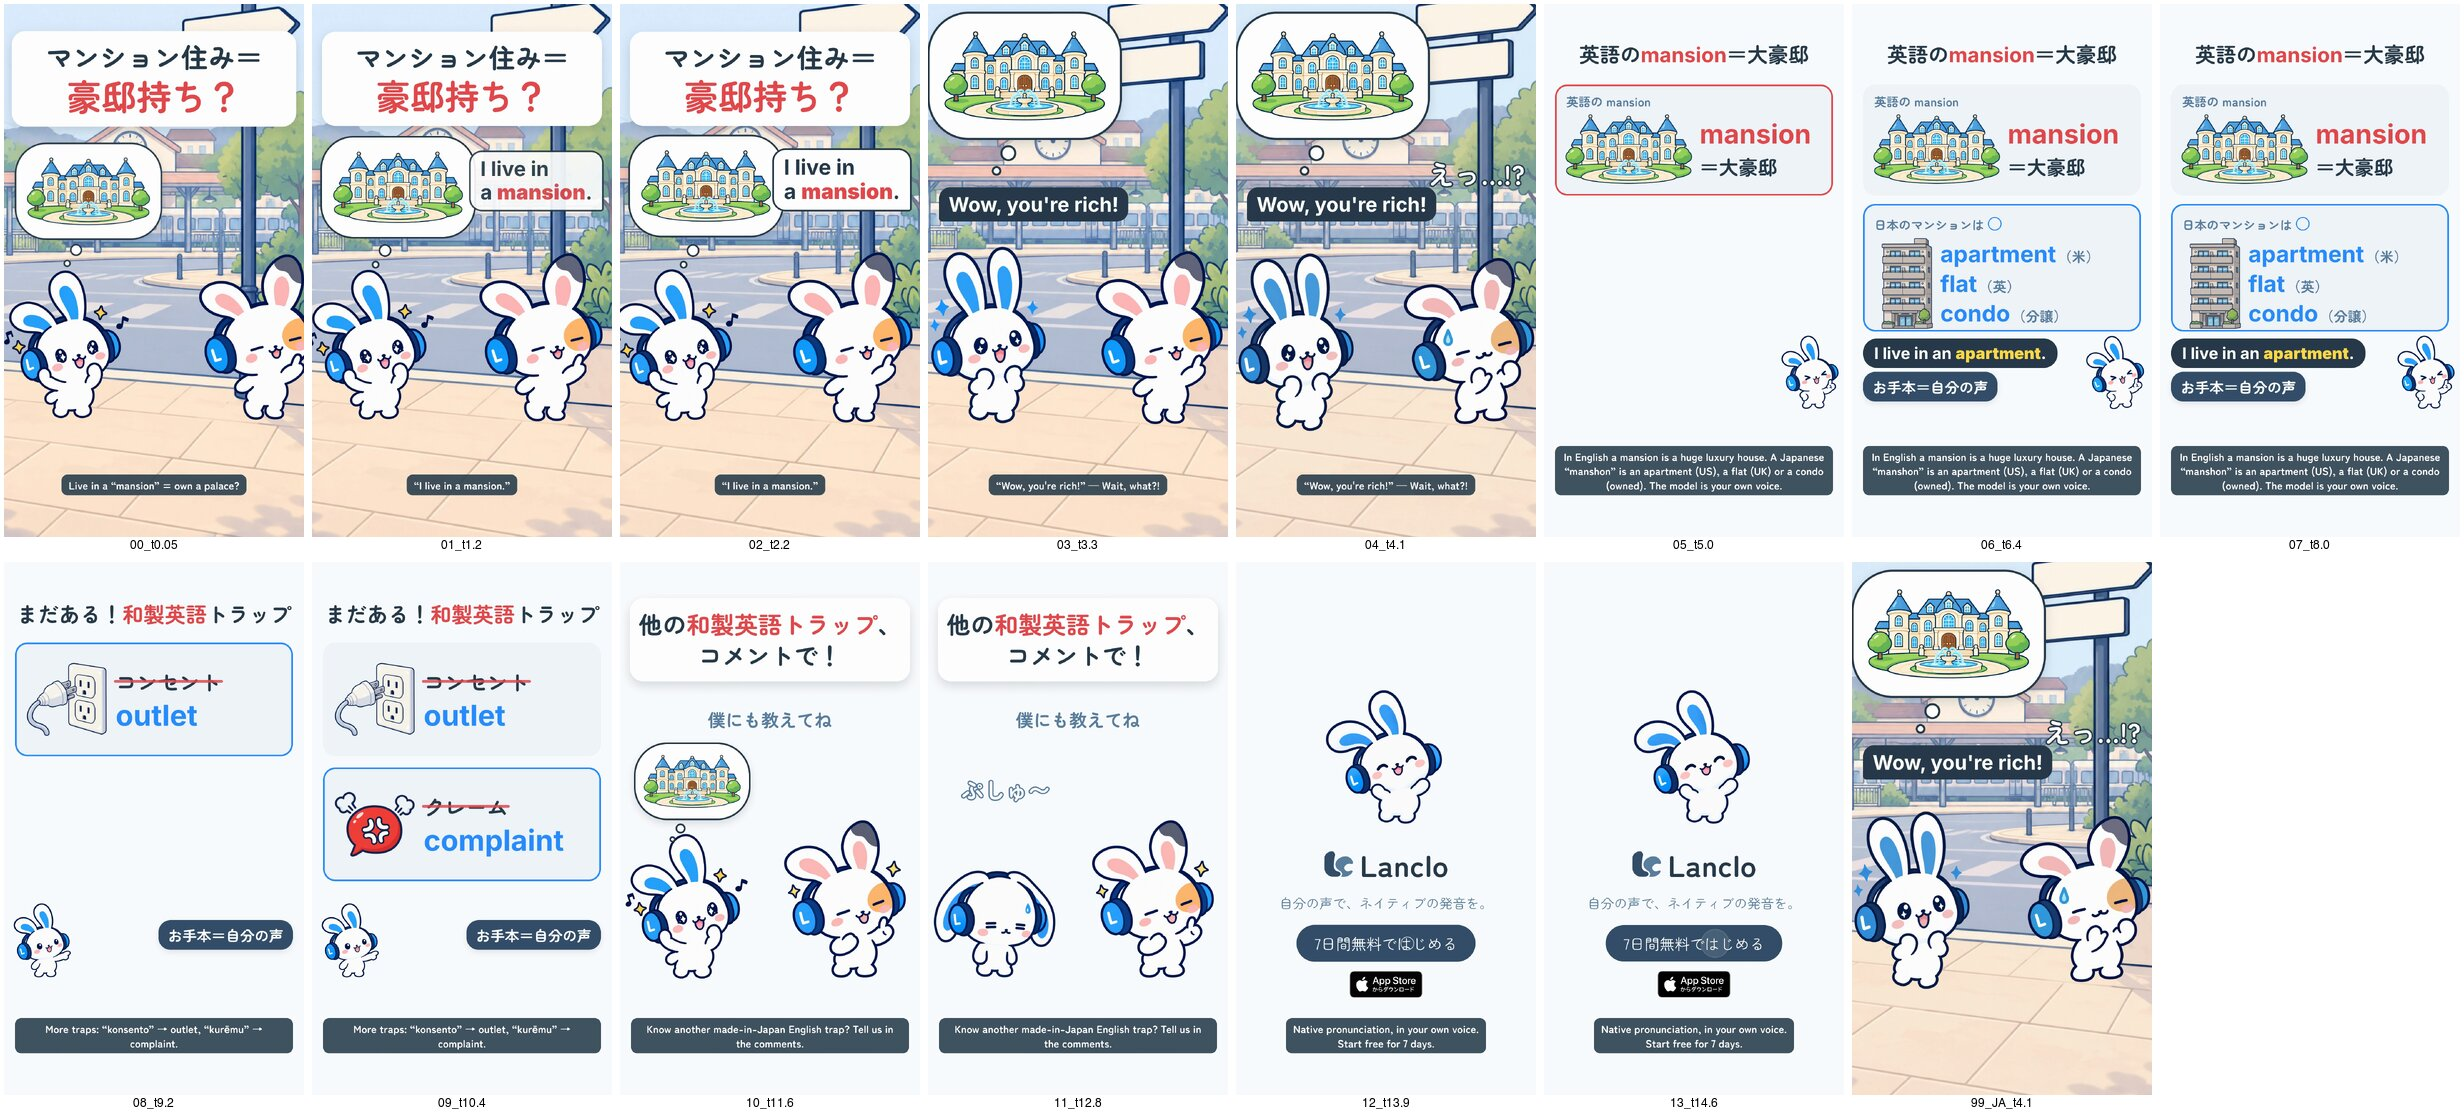
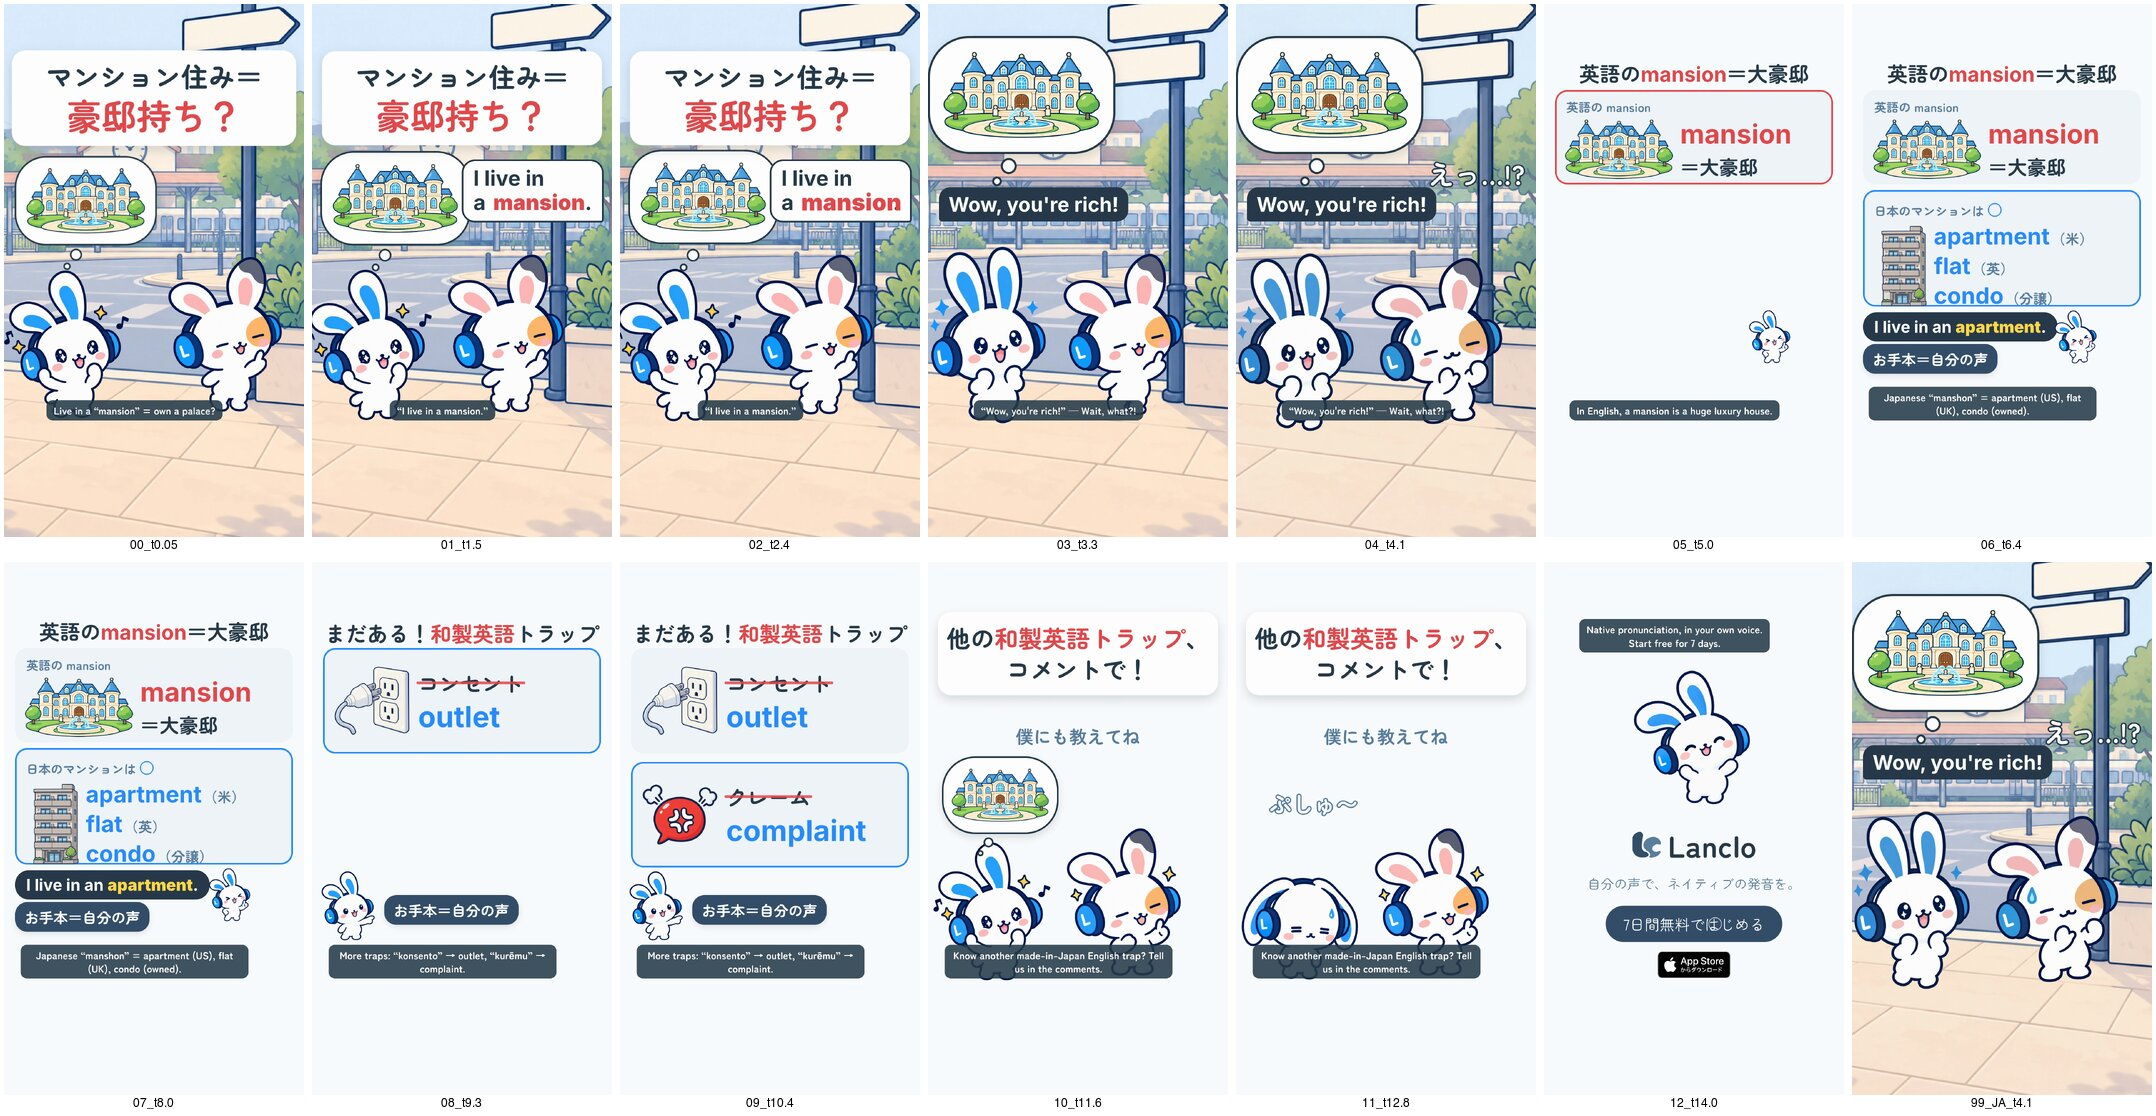
059 Katakana Traps 2: platform safe zones
English subtitles above y 1500 within x 60-880, the Friend's face and the
small card Mimi out of the right rail, text from y 200, end card moved up
so the store badge clears the bottom zone. Overlay check in process/.

diff --git a/films/mimi-katakana-mansion/source/hf/index.html b/films/mimi-katakana-mansion/source/hf/index.html
@@ -16,10 +16,10 @@
       #plate { position: absolute; inset: 0; width: 100%; height: 100%; object-fit: cover; }
       .cast { position: absolute; height: auto; transform-origin: 50% 100%; }
       .other { left: -10px; top: 950px; width: 470px; }   /* Mimi, left */
-      .learner { left: 590px; top: 890px; width: 460px; } /* the Friend, right */
+      .learner { left: 480px; top: 900px; width: 430px; } /* the Friend, right */
       #tint { position: absolute; inset: 0; background: #9aa6b2; mix-blend-mode: saturation; opacity: 0; }
       /* The hook: huge, on screen from frame 1 */
-      #hook { position: absolute; left: 36px; right: 36px; top: 100px; background: #ffffff; border-radius: 48px; padding: 30px 30px 34px;
+      #hook { position: absolute; left: 36px; right: 36px; top: 170px; background: #ffffff; border-radius: 48px; padding: 30px 30px 34px;
               box-shadow: 0 16px 40px rgba(39, 59, 75, 0.18); text-align: center; font-size: 96px; font-weight: 700; line-height: 1.25; color: #273b4b; }
       #hook .hot { display: inline-block; color: #e5484d; font-size: 124px; }
       /* Mimi's thought bubble: the castle with the fountain */
@@ -28,13 +28,13 @@
                       box-shadow: 0 12px 30px rgba(39, 59, 75, 0.16); display: flex; align-items: center; justify-content: center; }
       .think .cloud img { width: 88%; height: auto; }
       .think i { position: absolute; display: block; background: #ffffff; border: 6px solid #273b4b; border-radius: 50%; }
-      #think { left: 30px; top: 480px; width: 560px; height: 370px; }
-      #think i.a { left: 210px; top: 385px; width: 46px; height: 46px; }
-      #think i.b { left: 185px; top: 445px; width: 28px; height: 28px; }
+      #think { left: 30px; top: 530px; width: 540px; height: 340px; }
+      #think i.a { left: 210px; top: 352px; width: 46px; height: 46px; }
+      #think i.b { left: 185px; top: 405px; width: 28px; height: 28px; }
       /* speech: the Friend's line */
-      .say { position: absolute; right: 30px; top: 520px; background: #ffffff; border: 6px solid #273b4b; border-radius: 48px; border-bottom-right-radius: 10px;
+      .say { position: absolute; right: 30px; top: 560px; background: #ffffff; border: 6px solid #273b4b; border-radius: 48px; border-bottom-right-radius: 10px;
              padding: 18px 36px 22px; font-size: 76px; font-weight: 700; color: #273b4b; line-height: 1.15; font-family: "Helvetica Neue", Arial, sans-serif; }
-      #say b { color: #e5484d; display: inline-block; }
+      #say b { color: #e5484d; display: inline-block; margin-left: 0.12em; }
       /* Mimi's reply bubble (caption only, no voice) */
       .reply { position: absolute; left: 40px; top: 660px; background: #273b4b; color: #fff; border-radius: 40px; border-bottom-left-radius: 10px;
                padding: 18px 34px; font-family: "Helvetica Neue", Arial, sans-serif; font-size: 72px; font-weight: 700; }
@@ -42,62 +42,65 @@
                  -webkit-text-stroke: 10px #273b4b; paint-order: stroke fill; }
       /* The explain card: mansion (English) vs マンション (Japanese) */
       .type { position: absolute; inset: 0; background: #fbfcfd; }
-      #c-title { position: absolute; left: 0; right: 0; top: 130px; text-align: center; font-size: 74px; font-weight: 700; color: #273b4b; line-height: 1.3; }
+      #c-title { position: absolute; left: 0; right: 0; top: 200px; text-align: center; font-size: 74px; font-weight: 700; color: #273b4b; line-height: 1.3; }
       #c-title em { font-style: normal; color: #e5484d; font-family: "Helvetica Neue", Arial, sans-serif; }
       .row { position: absolute; left: 40px; right: 40px; border-radius: 44px; background: #f1f5f9; border: 6px solid transparent; padding: 22px 24px; }
       .row .lab { font-size: 44px; font-weight: 700; color: #5b7f9f; text-align: left; padding-left: 10px; }
       .row .lab b { font-size: 56px; margin-left: 10px; }
-      #row-ng { top: 290px; height: 400px; }
-      #row-ok { top: 720px; height: 460px; }
+      #row-ng { top: 310px; height: 340px; }
+      #row-ok { top: 670px; height: 420px; }
       #row-ng .lab b { color: #e5484d; }
       #row-ok .lab b { color: #2a8dff; }
       .pair { display: flex; align-items: center; gap: 20px; margin-top: 8px; }
-      #row-ng .pair img { width: 470px; height: auto; }
-      #row-ok .pair img { height: 340px; width: auto; margin-left: 30px; }
+      #row-ng .pair img { width: 400px; height: auto; }
+      #row-ok .pair img { height: 300px; width: auto; margin-left: 30px; }
       .words { display: flex; flex-direction: column; gap: 8px; }
       .w-en { font-family: "Helvetica Neue", Arial, sans-serif; font-weight: 700; color: #273b4b; }
       #row-ng .w-en { font-size: 96px; color: #e5484d; }
       #row-ng .w-ja { font-size: 70px; font-weight: 700; color: #273b4b; }
       #row-ok .words .w { font-size: 50px; font-weight: 700; color: #5b7f9f; white-space: nowrap; }
       #row-ok .words .w .w-en { font-size: 82px; color: #2a8dff; margin-right: 6px; }
-      #c-tip { position: absolute; left: 40px; top: 1205px; transform-origin: 0% 50%; }
+      #c-tip { position: absolute; left: 40px; top: 1110px; transform-origin: 0% 50%; }
       #c-tip > span { display: inline-block; background: #273b4b; color: #ffffff; font-size: 58px; white-space: nowrap; font-weight: 700; padding: 18px 40px;
                       border-radius: 50px; font-family: "Helvetica Neue", Arial, sans-serif; }
       #c-tip b { color: #ffd84a; display: inline-block; }
-      #c-mimi { position: absolute; left: 850px; top: 1190px; width: 215px; height: auto; transform-origin: 50% 100%; }
-      #c-who { position: absolute; left: 40px; right: auto; top: 1325px; justify-content: flex-start; }
+      #c-mimi { position: absolute; left: 735px; top: 1100px; width: 155px; height: auto; transform-origin: 50% 100%; }
+      #c-who { position: absolute; left: 40px; right: auto; top: 1225px; justify-content: flex-start; }
       /* The quick-fire trap card (model beat) */
-      #q-title { position: absolute; left: 0; right: 0; top: 130px; text-align: center; font-size: 76px; font-weight: 700; color: #273b4b; }
+      #q-title { position: absolute; left: 0; right: 0; top: 200px; text-align: center; font-size: 76px; font-weight: 700; color: #273b4b; }
       #q-title em { font-style: normal; color: #e5484d; }
-      .qrow { position: absolute; left: 40px; right: 40px; height: 410px; border-radius: 44px; background: #f1f5f9; border: 6px solid transparent;
+      .qrow { position: absolute; left: 40px; right: 40px; height: 380px; border-radius: 44px; background: #f1f5f9; border: 6px solid transparent;
               display: flex; align-items: center; gap: 26px; padding: 0 30px; }
-      #q1 { top: 290px; }
-      #q2 { top: 740px; }
-      .qrow img { width: 300px; height: auto; flex: none; }
+      #q1 { top: 310px; }
+      #q2 { top: 720px; }
+      .qrow img { width: 280px; height: auto; flex: none; }
       .qrow .ja { font-size: 76px; font-weight: 700; color: #273b4b; position: relative; display: inline-block; }
       .qrow .ja s { text-decoration: none; }
       .qrow .ja .x { position: absolute; left: -6px; right: -6px; top: 50%; height: 10px; margin-top: -5px; background: rgba(229, 72, 77, 0.85); border-radius: 5px; transform-origin: 0 50%; }
       .qrow .en { display: block; font-family: "Helvetica Neue", Arial, sans-serif; font-size: 104px; font-weight: 700; color: #2a8dff; margin-top: 4px; }
-      #q-mimi { position: absolute; left: 30px; top: 1225px; width: 215px; height: auto; transform-origin: 50% 100%; }
-      #q-who { position: absolute; right: 40px; top: 1290px; }
+      #q-mimi { position: absolute; left: 30px; top: 1110px; width: 200px; height: auto; transform-origin: 50% 100%; }
+      #q-who { position: absolute; left: 260px; right: auto; top: 1200px; justify-content: flex-start; }
       /* CTA: the comment question, before the end card; Mimi's castle deflates */
       #cta { position: absolute; inset: 0; background: #fbfcfd; }
-      #cta-q { position: absolute; left: 36px; right: 36px; top: 130px; background: #ffffff; border-radius: 48px; padding: 36px 24px 40px;
+      #cta-q { position: absolute; left: 36px; right: 36px; top: 180px; background: #ffffff; border-radius: 48px; padding: 36px 24px 40px;
                box-shadow: 0 16px 40px rgba(39, 59, 75, 0.18); text-align: center; font-size: 86px; font-weight: 700; line-height: 1.3; color: #273b4b; }
       #cta-q em { font-style: normal; color: #e5484d; }
-      #cta-sub { position: absolute; left: 0; right: 0; top: 520px; text-align: center; font-size: 64px; font-weight: 700; color: #5b7f9f; }
-      #cta-think { left: 50px; top: 650px; width: 420px; height: 280px; }
+      #cta-sub { position: absolute; left: 0; right: 0; top: 580px; text-align: center; font-size: 64px; font-weight: 700; color: #5b7f9f; }
+      #cta-think { left: 50px; top: 700px; width: 420px; height: 280px; }
       #cta-think i.a { left: 150px; top: 292px; width: 36px; height: 36px; }
       #cta-think i.b { left: 128px; top: 338px; width: 22px; height: 22px; }
-      #pshu { position: absolute; left: 120px; top: 760px; font-size: 80px; font-weight: 700; color: #ffffff; -webkit-text-stroke: 9px #5b7f9f; paint-order: stroke fill; }
-      #cta-mimi, #cta-mimi2 { position: absolute; left: 10px; width: 460px; height: auto; transform-origin: 50% 100%; }
-      #cta-mimi { top: 970px; }
-      #cta-mimi2 { top: 1100px; }
-      #cta-friend { position: absolute; left: 580px; top: 920px; width: 460px; height: auto; transform-origin: 50% 100%; }
+      #pshu { position: absolute; left: 120px; top: 810px; font-size: 80px; font-weight: 700; color: #ffffff; -webkit-text-stroke: 9px #5b7f9f; paint-order: stroke fill; }
+      #cta-mimi, #cta-mimi2 { position: absolute; left: 10px; width: 440px; height: auto; transform-origin: 50% 100%; }
+      #cta-mimi { top: 1000px; }
+      #cta-mimi2 { top: 1125px; }
+      #cta-friend { position: absolute; left: 490px; top: 950px; width: 430px; height: auto; transform-origin: 50% 100%; }
       /* English subtitles: bottom safe zone. <body class="no-subs"> renders the Japanese-only cut. */
+      /* End card moved up 90 px so the store badge clears the bottom platform zone */
+      #end.end { padding-top: 350px; }
       body.no-subs .sub { display: none; }
-      .sub { position: absolute; left: 30px; right: 30px; bottom: 150px; display: flex; justify-content: center; }
-      .sub span { display: block; max-width: 1000px; background: rgba(39, 59, 75, 0.88); color: #ffffff; font-size: 38px; line-height: 1.35;
+      .sub { position: absolute; left: 60px; width: 820px; bottom: 420px; display: flex; justify-content: center; }
+      .sub.top { bottom: auto; top: 205px; }
+      .sub span { display: block; max-width: 820px; background: rgba(39, 59, 75, 0.88); color: #ffffff; font-size: 36px; line-height: 1.35;
                   font-weight: 700; text-align: center; padding: 12px 26px; border-radius: 22px; }
     </style>
   </head>
@@ -182,10 +185,11 @@
       <div class="sub clip" data-start="0" data-duration="1.15" data-track-index="24"><span>Live in a “mansion” = own a palace?</span></div>
       <div class="sub clip" data-start="1.15" data-duration="1.85" data-track-index="24"><span>“I live in a mansion.”</span></div>
       <div class="sub clip" data-start="3.0" data-duration="1.5" data-track-index="24"><span>“Wow, you're rich!” — Wait, what?!</span></div>
-      <div class="sub clip" data-start="4.5" data-duration="4.0" data-track-index="24"><span>In English a mansion is a huge luxury house. A Japanese “manshon” is an apartment (US), a flat (UK) or a condo (owned). The model is your own voice.</span></div>
+      <div class="sub clip" data-start="4.5" data-duration="1.0" data-track-index="24"><span>In English, a mansion is a huge luxury house.</span></div>
+      <div class="sub clip" data-start="5.5" data-duration="3.0" data-track-index="24"><span>Japanese “manshon” = apartment (US), flat (UK), condo (owned).</span></div>
       <div class="sub clip" data-start="8.5" data-duration="2.5" data-track-index="24"><span>More traps: “konsento” → outlet, “kurēmu” → complaint.</span></div>
       <div class="sub clip" data-start="11.0" data-duration="2.6" data-track-index="24"><span>Know another made-in-Japan English trap? Tell us in the comments.</span></div>
-      <div class="sub clip" data-start="13.6" data-duration="1.5" data-track-index="24"><span>Native pronunciation, in your own voice.<br />Start free for 7 days.</span></div>
+      <div class="sub top clip" data-start="13.6" data-duration="1.5" data-track-index="24"><span>Native pronunciation, in your own voice.<br />Start free for 7 days.</span></div>
 
       <audio id="mix" src="assets/mix.wav" data-start="0" data-duration="15.1" data-track-index="20" data-volume="1"></audio>
     </div>
@@ -207,10 +211,10 @@
       tl.fromTo("#other-a", { rotation: 0 }, { rotation: -3, duration: 0.4, yoyo: true, repeat: 5, ease: "sine.inOut", immediateRender: false }, 0.2);
       // slip: the Friend's line; Mimi's "Wow, you're rich!" and the castle grows
       tl.fromTo("#say", { scale: 0.6, opacity: 0, transformOrigin: "100% 100%" }, { scale: 1, opacity: 1, duration: 0.18, ease: "back.out(2)" }, SLIP - 0.1);
-      tl.fromTo("#say b", { scale: 1 }, { scale: 1.15, duration: 0.12, yoyo: true, repeat: 1, immediateRender: false }, SLIP + 1.0);
+      tl.fromTo("#say b", { scale: 1 }, { scale: 1.1, transformOrigin: "0% 60%", duration: 0.12, yoyo: true, repeat: 1, immediateRender: false }, SLIP + 1.0);
       tl.fromTo("#learner-a", { y: 0 }, { y: -14, duration: 0.15, yoyo: true, repeat: 5, ease: "sine.inOut", immediateRender: false }, SLIP);
       tl.to(["#say", "#hook"], { opacity: 0, y: -30, duration: 0.15 }, RICH - 0.1);
-      tl.to("#think", { y: -360, x: 10, scale: 1.25, duration: 0.3, ease: "back.out(1.6)" }, RICH);
+      tl.to("#think", { y: -330, x: 10, scale: 1.25, duration: 0.3, ease: "back.out(1.6)" }, RICH);
       tl.fromTo("#sorry", { scale: 0.6, opacity: 0, transformOrigin: "0% 100%" }, { scale: 1, opacity: 1, duration: 0.18, ease: "back.out(2)" }, RICH + 0.05);
       tl.fromTo("#other-b", { y: 0 }, { y: -30, duration: 0.16, yoyo: true, repeat: 3, ease: "power2.out", immediateRender: false }, RICH + 0.05);
       // the Friend panics

diff --git a/films/mimi-katakana-mansion/PROCESS.md b/films/mimi-katakana-mansion/PROCESS.md
@@ -21,7 +21,9 @@
 
    No deliberate mispronunciation in this episode, so no formant check was needed; the takes were trimmed by their measured leading silence (`TRIM` in `cues.json`), heads and tails left whole. A Whisper pass for timestamps produced no output on this machine and was not needed. Needs a human listen.
 5. Sound (`scripts/mix.py`, kit Mix): soft pops on the hook and on “Wow, you're rich!”, a low boing on the panic (×0.6), the bed drops to 30 % during the panic and comes back with the card, a soft tap before each quick-fire word, a quiet pofu + falling boing + poof for the deflating castle (lowered after a level check: the first pass peaked at -3.7 dBFS, now -7.9). No bells. The loudness fix from episode 1 (measure, gain in front of a -1.5 dBTP limiter, measure again) is in `mix.py`: mix.wav -14.2 LUFS / -1.4 dBTP; the rendered MP4s measure -13.6 LUFS (ebur128) / -1.2 dBFS. Voice RMS about -12 to -14 dB vs the bed alone about -26 dB.
-6. `hyperframes check`: `#think` moved with x/y instead of top/left (snap warning); the remaining layout item is the intended red strike over コンセント / クレーム. Contact sheet ([process/00-draft-frames.jpg](process/00-draft-frames.jpg)): hook readable at frame 1, captions and bubbles at the top, faces clear, cast feet end at about y 1515; 「えっ…!?」 moved up off the Friend's ear. The English subtitle sits at the series position (bottom 150 px, as in episode 1). Japanese-only cut has no subtitles.
+6. `hyperframes check`: `#think` moved with x/y instead of top/left (snap warning); the remaining layout item is the intended red strike over コンセント / クレーム. Contact sheet ([process/00-draft-frames.jpg](process/00-draft-frames.jpg)): hook readable at frame 1, captions and bubbles at the top, faces clear, cast feet end at about y 1515; 「えっ…!?」 moved up off the Friend's ear. The English subtitle first sat at the series position (bottom 150 px, as in episode 1); moved in step 7. Japanese-only cut has no subtitles.
+
+7. Commander review (2026-10-23): content approved; platform safe zones per the owner (quoted verbatim): 「セーフティエリアって大丈夫？被ってもいいけどすべてが隠れないようにね。」 Fixed: English subtitles moved fully above y 1500 and within x 60–880 (36 px, at most two lines; the explain subtitle split in two; the end-card subtitle moved to the top); the Friend moved left so his face stays left of x 900; the small Mimi and the お手本 tags on the explain and quick-fire cards moved out of the right rail (x > 900, y 820–1520); first text lines of the hook, card titles and CTA start at y ≥ 200; the end card moved up 70 px so the store badge clears the bottom zone. Checked on an overlay sheet with the three zones drawn every ~1.5 s ([process/01-safe-zones.jpg](process/01-safe-zones.jpg)). Sound unchanged (-13.6 LUFS in the MP4s). Drive: the first drafts moved to `old/` with a `_v1` suffix.
 
 ## Uncertain / for review
 

diff --git a/films/mimi-katakana-mansion/source/README.md b/films/mimi-katakana-mansion/source/README.md
@@ -15,4 +15,5 @@ kits/mimi-short/render-cuts.sh $S/hf mimi-katakana-mansion      # -> renders/mim
 - `cues.json` is the cue sheet: beat times plus `TRIM` (leading silence cut from each take). `scripts/mix.py` reads it; `hf/index.html` repeats the same numbers at the top of its script.
 - Copied from `films/mimi-katakana-mcdonalds/source` (episode 1) with the beat ids kept; the `model` beat holds the quick-fire trap card in this meaning-trap episode.
 - `hyperframes check` reports one layout item: the red strike line over コンセント / クレーム "occludes" the text. That is the intended cross-out.
+- Platform safe zones (TikTok / Reels / Shorts UI): nothing meaningful below y 1500, no text or small figures in the right rail (x > 900, y 820–1520), text from y 200; English subtitles sit at bottom 420 px within x 60–880. Overlay check: ../process/01-safe-zones.jpg.
 - Not in Git: `assets/own-voice/` (biometric), `hf/assets/`, `renders/`, the BGM.
